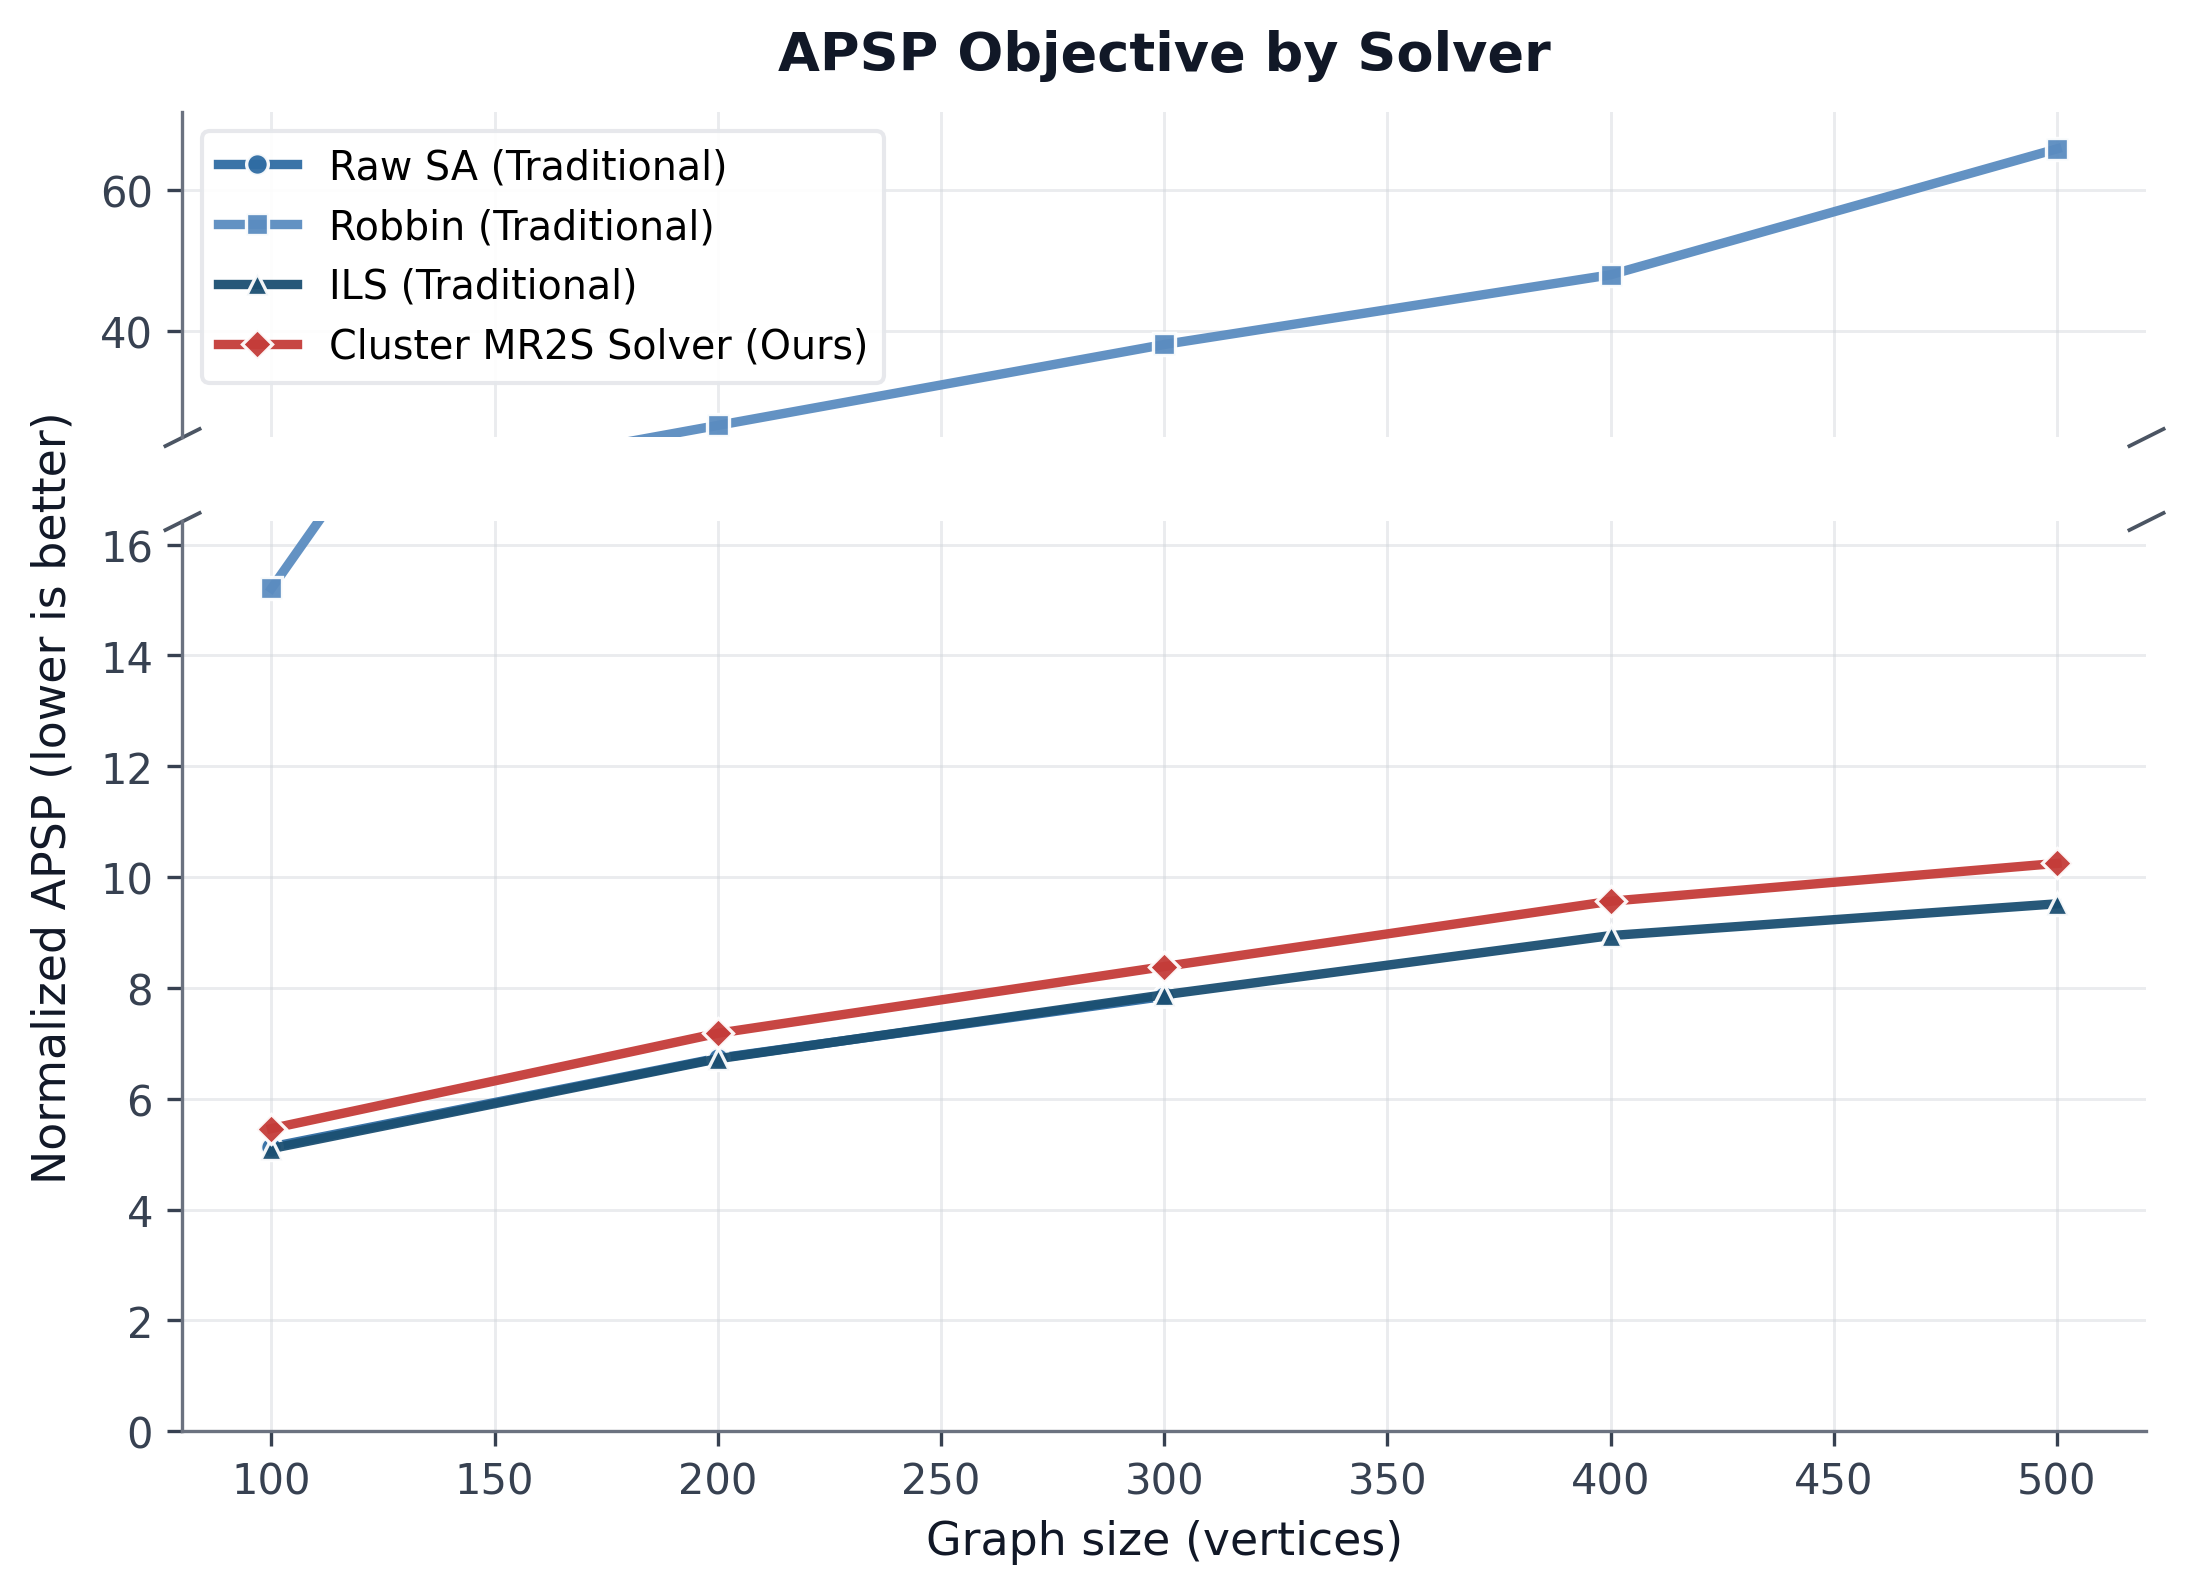
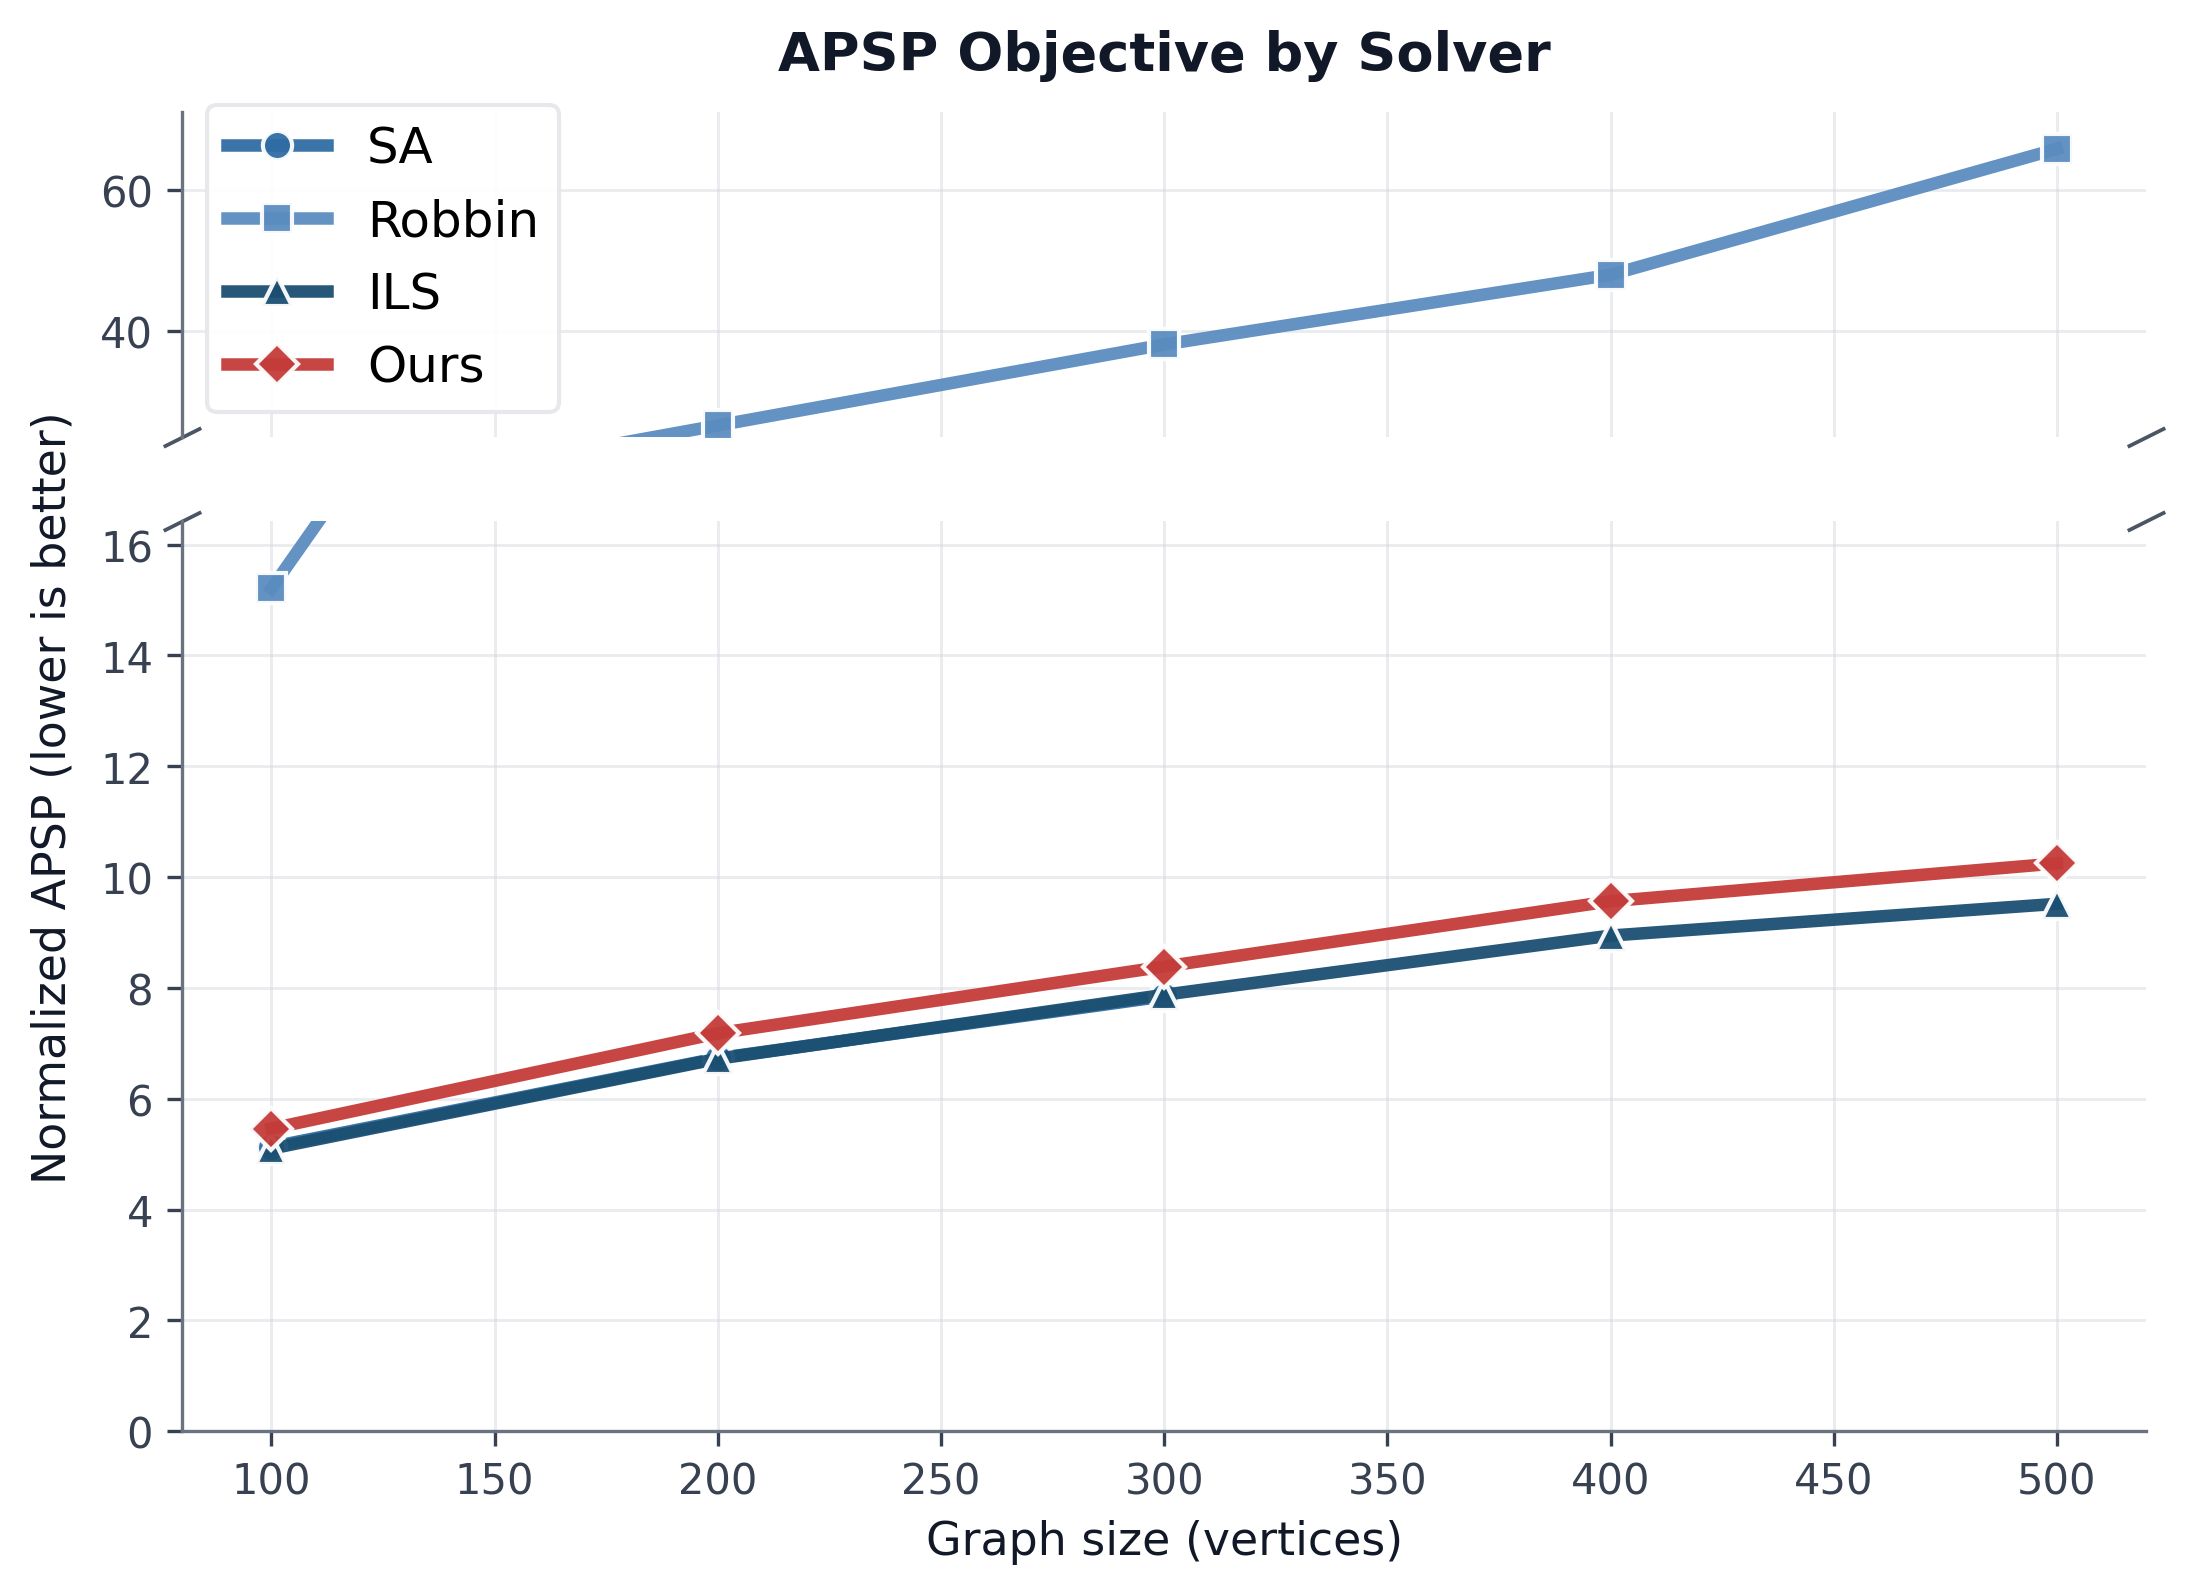
style(poster): improve plot readability

diff --git a/src/visualizer.py b/src/visualizer.py
@@ -31,11 +31,18 @@ PUBLICATION_MARKERS = {
     "global": "P",
 }
 SOLVER_DISPLAY_NAMES = {
-    "raw_sa": "Raw SA (Traditional)",
-    "robbin_mr2s": "Robbin (Traditional)",
-    "iterated_local_search_mr2s": "ILS (Traditional)",
-    "embedding_aware": "Cluster MR2S Solver (Ours)",
+    "raw_sa": "SA",
+    "robbin_mr2s": "Robbin",
+    "iterated_local_search_mr2s": "ILS",
+    "embedding_aware": "Ours",
     "global": "Global MR2S Solver",
+}
+BQM_DISPLAY_NAMES = {
+    "global": "Mono",
+    "embedding_aware_sum": "Cluster sum",
+    "embedding_aware_max": "Cluster max",
+    "embedding_aware_avg": "Cluster avg",
+    "embedding_aware_min": "Cluster min",
 }
 DNC_STRATEGY_STYLES = {
     "poster": ("D-", PUBLICATION_COLORS["ours_light"], "DnC poster"),
@@ -141,9 +148,9 @@ def _plot_series(
             color=item["color"],
             marker=item.get("marker", "o"),
             linestyle=item.get("linestyle", "-"),
-            linewidth=2.25,
-            markersize=5.2,
-            markeredgewidth=0.8,
+            linewidth=3.0,
+            markersize=7.0,
+            markeredgewidth=1.0,
             markeredgecolor="white",
             alpha=item.get("alpha", 0.95),
         )
@@ -203,7 +210,7 @@ def _publication_line_figure(
         framealpha=0.92,
         facecolor="white",
         edgecolor="#E5E7EB",
-        fontsize=9.5,
+        fontsize=12,
     )
 
     if save_path:
@@ -649,7 +656,7 @@ def plot_preprocessing_scalability(
         _solver_series(
             sizes,
             "global",
-            SOLVER_DISPLAY_NAMES["global"],
+            BQM_DISPLAY_NAMES["global"],
             PUBLICATION_COLORS["global"],
             global_vars,
             PUBLICATION_MARKERS["global"],
@@ -657,7 +664,7 @@ def plot_preprocessing_scalability(
         _solver_series(
             sizes,
             "embedding_aware_sum",
-            "Cluster MR2S Solver (Ours), subgraph sum",
+            BQM_DISPLAY_NAMES["embedding_aware_sum"],
             PUBLICATION_COLORS["ours"],
             cluster_section.get("qubo_vars", clustered_vars),
             "D",
@@ -665,7 +672,7 @@ def plot_preprocessing_scalability(
         _solver_series(
             sizes,
             "embedding_aware_max",
-            "Cluster MR2S Solver (Ours), subgraph max",
+            BQM_DISPLAY_NAMES["embedding_aware_max"],
             PUBLICATION_COLORS["ours_light"],
             cluster_section.get("subgraph_size", clustered_sg),
             "^",
@@ -673,7 +680,7 @@ def plot_preprocessing_scalability(
         _solver_series(
             sizes,
             "embedding_aware_avg",
-            "Cluster MR2S Solver (Ours), subgraph avg",
+            BQM_DISPLAY_NAMES["embedding_aware_avg"],
             "#D98D89",
             cluster_section.get("qvars_mean", clustered_physical_mean),
             "o",
@@ -681,7 +688,7 @@ def plot_preprocessing_scalability(
         _solver_series(
             sizes,
             "embedding_aware_min",
-            "Cluster MR2S Solver (Ours), subgraph min",
+            BQM_DISPLAY_NAMES["embedding_aware_min"],
             "#F0B7B2",
             cluster_section.get("qvars_min", clustered_physical_min),
             "v",

diff --git a/src/commands/poster_results/plotting.py b/src/commands/poster_results/plotting.py
@@ -8,6 +8,7 @@ import os
 from typing import Any
 
 from src.visualizer import (
+    BQM_DISPLAY_NAMES,
     PUBLICATION_COLORS,
     SOLVER_DISPLAY_NAMES,
     plot_apsp_reduction,
@@ -170,35 +171,35 @@ def _plot_data_summary(
         _series_summary(
             sizes,
             "global",
-            SOLVER_DISPLAY_NAMES["global"],
+            BQM_DISPLAY_NAMES["global"],
             SERIES_COLORS["global"],
             global_result.get("qubo_vars"),
         ),
         _series_summary(
             sizes,
             "embedding_aware_sum",
-            "Cluster MR2S Solver (Ours), subgraph sum",
+            BQM_DISPLAY_NAMES["embedding_aware_sum"],
             SERIES_COLORS["embedding_aware_sum"],
             clustered.get("qubo_vars"),
         ),
         _series_summary(
             sizes,
             "embedding_aware_max",
-            "Cluster MR2S Solver (Ours), subgraph max",
+            BQM_DISPLAY_NAMES["embedding_aware_max"],
             SERIES_COLORS["embedding_aware_max"],
             clustered.get("subgraph_size"),
         ),
         _series_summary(
             sizes,
             "embedding_aware_avg",
-            "Cluster MR2S Solver (Ours), subgraph avg",
+            BQM_DISPLAY_NAMES["embedding_aware_avg"],
             SERIES_COLORS["embedding_aware_avg"],
             clustered.get("qvars_mean"),
         ),
         _series_summary(
             sizes,
             "embedding_aware_min",
-            "Cluster MR2S Solver (Ours), subgraph min",
+            BQM_DISPLAY_NAMES["embedding_aware_min"],
             SERIES_COLORS["embedding_aware_min"],
             clustered.get("qvars_min"),
         ),

diff --git a/tests/test_poster_results_cmd.py b/tests/test_poster_results_cmd.py
@@ -524,7 +524,14 @@ def test_plot_results_writes_publication_series_summary(tmp_path, monkeypatch) -
         "embedding_aware_avg",
         "embedding_aware_min",
     ]
-    assert summary["plots"]["apsp_reduction"]["series"][1]["display_name"] == "Cluster MR2S Solver (Ours)"
+    assert [item["display_name"] for item in summary["plots"]["scalability"]["series"]] == [
+        "Mono",
+        "Cluster sum",
+        "Cluster max",
+        "Cluster avg",
+        "Cluster min",
+    ]
+    assert summary["plots"]["apsp_reduction"]["series"][1]["display_name"] == "Ours"
     assert summary["plots"]["apsp_reduction"]["series"][1]["color"] == pr_plotting.SERIES_COLORS["embedding_aware"]
     assert summary["plots"]["spent_time"]["series"][1]["y"] == [2.2, 3.3]
     assert captured["apsp"] == ([100, 200], [3.0, 4.0])
